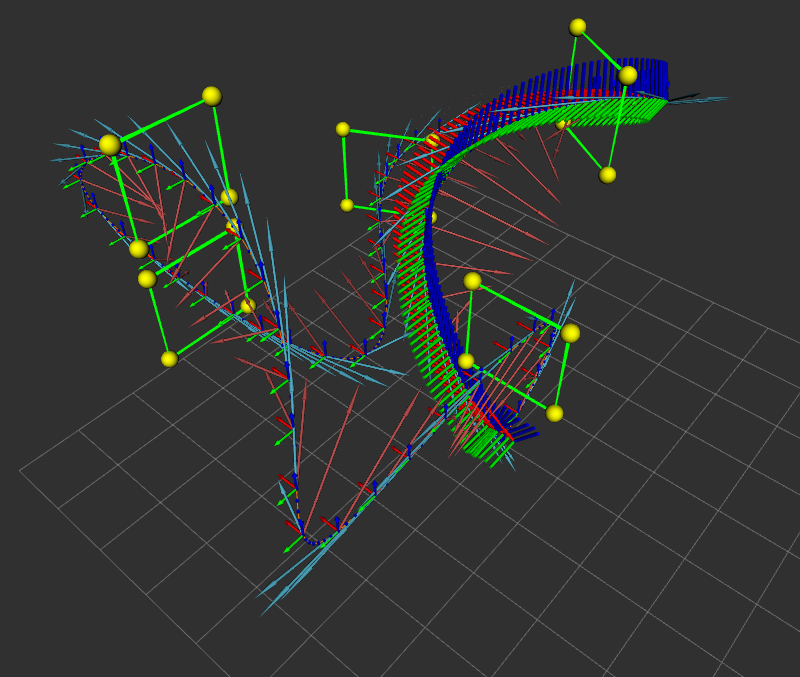
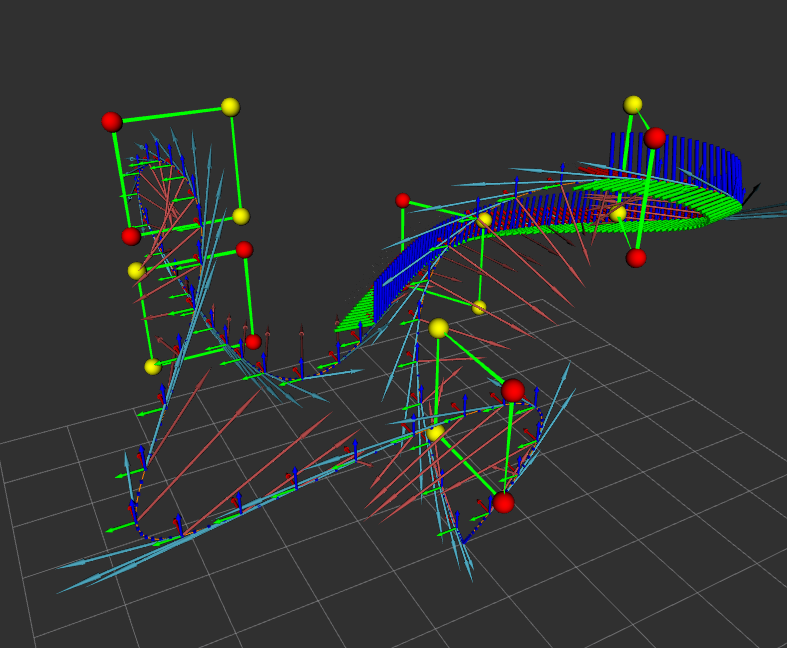
changed color of corners

diff --git a/src/p14_arob_lab3_drones/src/drone_race.cpp b/src/p14_arob_lab3_drones/src/drone_race.cpp
@@ -322,7 +322,7 @@ void DroneRace::drawGateMarkers_(geometry_msgs::Pose gate, int &id){
     marker.scale.z = 0.25;
     marker.color.a = 1.0;
     marker.color.r = 1.0;
-    marker.color.g = 1.0;
+    marker.color.g = 0.0;
     marker.color.b = 0.0;
     marker.pose.orientation.w = 1.0;
     marker.lifetime = ros::Duration();
@@ -356,6 +356,10 @@ void DroneRace::drawGateMarkers_(geometry_msgs::Pose gate, int &id){
     line_marker.points.push_back(marker.pose.position);
     marker_array.markers.push_back(marker);
 
+    marker.color.r = 1.0;
+    marker.color.g = 1.0;
+    marker.color.b = 0.0;
+
     move_gate << 0.0, -gate_size, gate_size;
     Eigen::Matrix<double, 3, 1> position = pos_gate + rotate_gate * move_gate;
     marker.pose.position.x = position(0);
@@ -364,6 +368,10 @@ void DroneRace::drawGateMarkers_(geometry_msgs::Pose gate, int &id){
     marker.id = id + 2;
     line_marker.points.push_back(marker.pose.position);
     marker_array.markers.push_back(marker);
+    
+    marker.color.r = 1.0;
+    marker.color.g = 1.0;
+    marker.color.b = 0.0;
 
     move_gate << 0.0, -gate_size, -gate_size;
     position = pos_gate + rotate_gate * move_gate;
@@ -373,6 +381,10 @@ void DroneRace::drawGateMarkers_(geometry_msgs::Pose gate, int &id){
     marker.id = id + 3;
     line_marker.points.push_back(marker.pose.position);
     marker_array.markers.push_back(marker);
+
+    marker.color.r = 1.0;
+    marker.color.g = 0.0;
+    marker.color.b = 0.0;
 
     move_gate << 0.0, gate_size, -gate_size;
     position = pos_gate + rotate_gate * move_gate;
